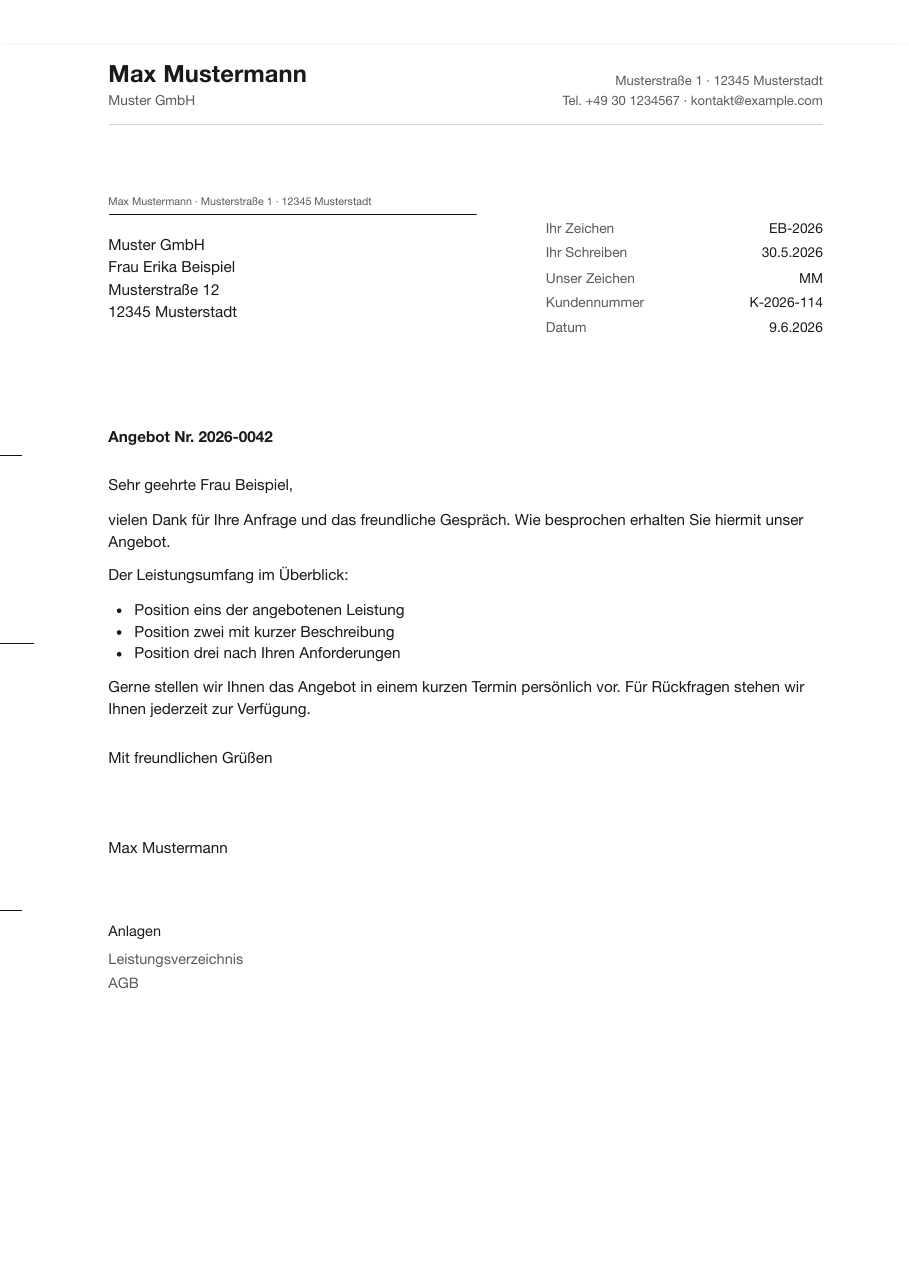
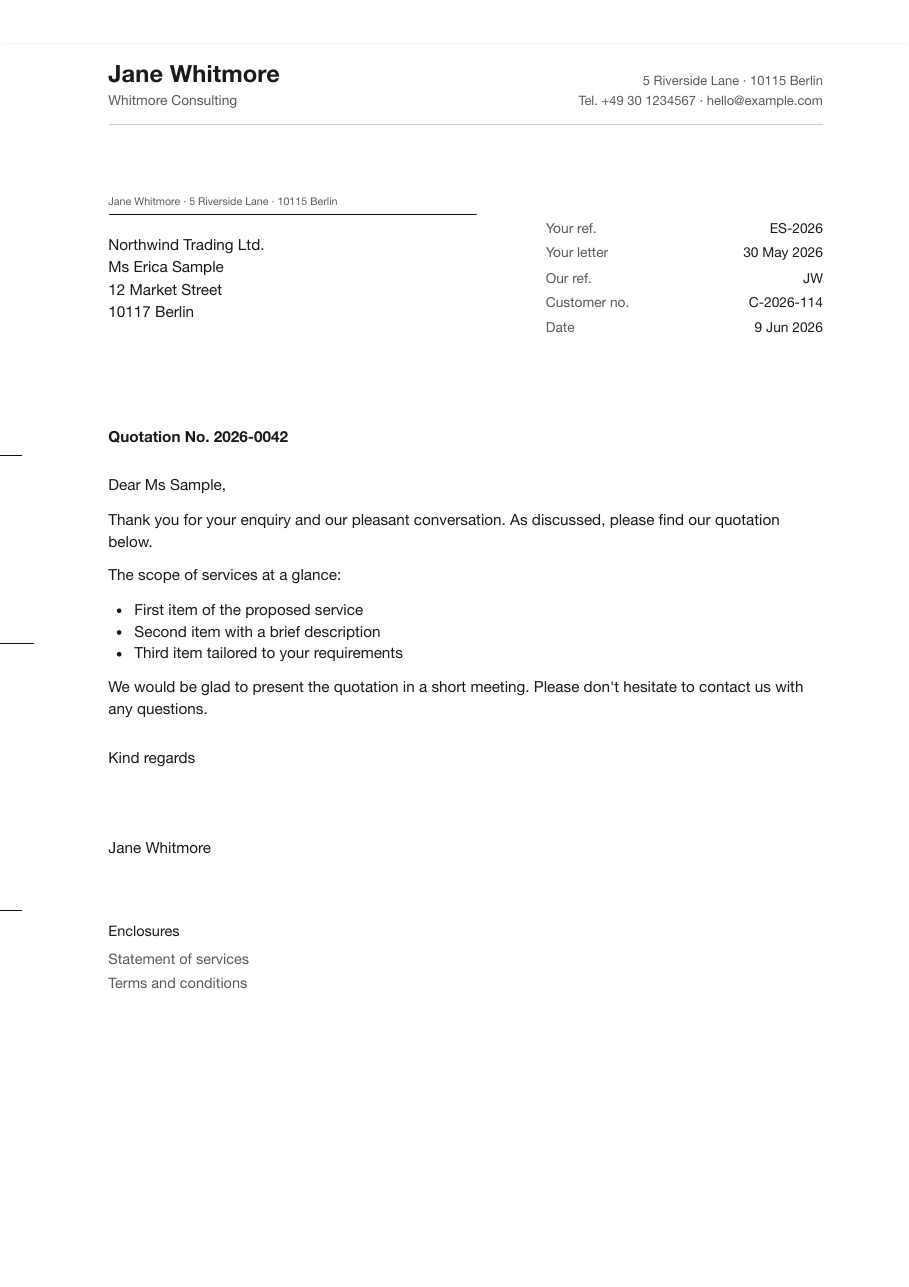
docs: Hero auf englischen Beispielbrief + Breite begrenzt (420px)

diff --git a/docs/images/sample-letter.html b/docs/images/sample-letter.html
@@ -1,13 +1,13 @@
 <!doctype html>
-<html lang="de">
+<html lang="en">
 <head>
 <meta charset="utf-8">
-<title>Briefkopf – Beispiel (DIN 5008 Form B, Stil A Sachlich)</title>
+<title>Letterhead – sample (DIN 5008, matter-of-fact style)</title>
 <!--
   Reproducible source for docs/images/hero.png.
-  Generated from the plugin itself (buildCss + buildLetterHtml, Stil A,
-  Infozeile vollständig, @page-Druckränder wie im Export: Seite 1 oben 10 mm,
-  unten 20 mm). Render with tools/render-hero.sh.
+  Generated from the plugin itself (buildCss + buildLetterHtml, matter-of-fact
+  style, full info block, @page print margins as in export: page 1 top 10 mm,
+  bottom 20 mm). Render with tools/render-hero.sh.
   Content is sample/placeholder data only.
 -->
 <style>
@@ -132,24 +132,24 @@ body { background: #ececec; }
 <body>
 <div class="bk-letter bk-din">
       <div class="bk-mark bk-f1"></div><div class="bk-mark bk-f2"></div><div class="bk-mark bk-lo"></div>
-      <header class="bk-head"><div><div class="bk-head-name">Max Mustermann</div><div class="bk-head-zusatz">Muster GmbH</div></div><div class="bk-head-contact"><div>Musterstraße 1 · 12345 Musterstadt</div><div>Tel. +49 30 1234567 · kontakt@example.com</div></div></header>
+      <header class="bk-head"><div><div class="bk-head-name">Jane Whitmore</div><div class="bk-head-zusatz">Whitmore Consulting</div></div><div class="bk-head-contact"><div>5 Riverside Lane · 10115 Berlin</div><div>Tel. +49 30 1234567 · hello@example.com</div></div></header>
       <section class="bk-anschrift bk-address">
-        <div class="bk-ruecksende bk-return">Max Mustermann · Musterstraße 1 · 12345 Musterstadt</div>
-        <div class="bk-empf bk-recipient">Muster GmbH
-Frau Erika Beispiel
-Musterstraße 12
-12345 Musterstadt</div>
+        <div class="bk-ruecksende bk-return">Jane Whitmore · 5 Riverside Lane · 10115 Berlin</div>
+        <div class="bk-empf bk-recipient">Northwind Trading Ltd.
+Ms Erica Sample
+12 Market Street
+10117 Berlin</div>
       </section>
-      <div class="bk-infoblock"><div class="bk-info-item"><span class="bk-info-label">Ihr Zeichen</span><span class="bk-info-value">EB-2026</span></div><div class="bk-info-item"><span class="bk-info-label">Ihr Schreiben</span><span class="bk-info-value">30.5.2026</span></div><div class="bk-info-item"><span class="bk-info-label">Unser Zeichen</span><span class="bk-info-value">MM</span></div><div class="bk-info-item"><span class="bk-info-label">Kundennummer</span><span class="bk-info-value">K-2026-114</span></div><div class="bk-info-item"><span class="bk-info-label">Datum</span><span class="bk-info-value">9.6.2026</span></div></div>
+      <div class="bk-infoblock"><div class="bk-info-item"><span class="bk-info-label">Your ref.</span><span class="bk-info-value">ES-2026</span></div><div class="bk-info-item"><span class="bk-info-label">Your letter</span><span class="bk-info-value">30 May 2026</span></div><div class="bk-info-item"><span class="bk-info-label">Our ref.</span><span class="bk-info-value">JW</span></div><div class="bk-info-item"><span class="bk-info-label">Customer no.</span><span class="bk-info-value">C-2026-114</span></div><div class="bk-info-item"><span class="bk-info-label">Date</span><span class="bk-info-value">9 Jun 2026</span></div></div>
       <div class="bk-content">
-        <div class="bk-betreff">Angebot Nr. 2026-0042</div>
-        <div class="bk-anrede bk-greeting">Sehr geehrte Frau Beispiel,</div>
-        <div class="bk-body"><p>vielen Dank für Ihre Anfrage und das freundliche Gespräch. Wie besprochen erhalten Sie hiermit unser Angebot.</p><p>Der Leistungsumfang im Überblick:</p><ul><li>Position eins der angebotenen Leistung</li><li>Position zwei mit kurzer Beschreibung</li><li>Position drei nach Ihren Anforderungen</li></ul><p>Gerne stellen wir Ihnen das Angebot in einem kurzen Termin persönlich vor. Für Rückfragen stehen wir Ihnen jederzeit zur Verfügung.</p></div>
-        <div class="bk-gruss bk-closing">Mit freundlichen Grüßen</div>
-        <div class="bk-signatur bk-signature">Max Mustermann</div>
+        <div class="bk-betreff">Quotation No. 2026-0042</div>
+        <div class="bk-anrede bk-greeting">Dear Ms Sample,</div>
+        <div class="bk-body"><p>Thank you for your enquiry and our pleasant conversation. As discussed, please find our quotation below.</p><p>The scope of services at a glance:</p><ul><li>First item of the proposed service</li><li>Second item with a brief description</li><li>Third item tailored to your requirements</li></ul><p>We would be glad to present the quotation in a short meeting. Please don't hesitate to contact us with any questions.</p></div>
+        <div class="bk-gruss bk-closing">Kind regards</div>
+        <div class="bk-signatur bk-signature">Jane Whitmore</div>
         <div class="bk-enclosures">
-      <div class="bk-encl-label">Anlagen</div>
-      <ul class="bk-encl-list"><li>Leistungsverzeichnis</li><li>AGB</li></ul>
+      <div class="bk-encl-label">Enclosures</div>
+      <ul class="bk-encl-list"><li>Statement of services</li><li>Terms and conditions</li></ul>
     </div>
       </div>
     </div>

diff --git a/README.md b/README.md
@@ -8,7 +8,8 @@ An Obsidian plugin that turns a note into a professionally formatted business le
 [![Docs: CC BY-SA 4.0](https://img.shields.io/badge/docs-CC%20BY--SA%204.0-lightgrey.svg)](LICENSE-DOCS)
 ![Platform](https://img.shields.io/badge/platform-Obsidian%20(Desktop%20%7C%20iOS)-lightgrey)
 
-![Letterhead — DIN 5008 letter](docs/images/hero.png)
+<img src="docs/images/hero.png" alt="Letterhead — a DIN 5008 business letter rendered by the plugin" width="420">
+
 
 ## Features
 
